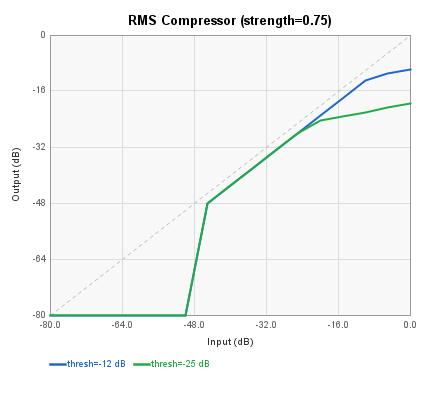
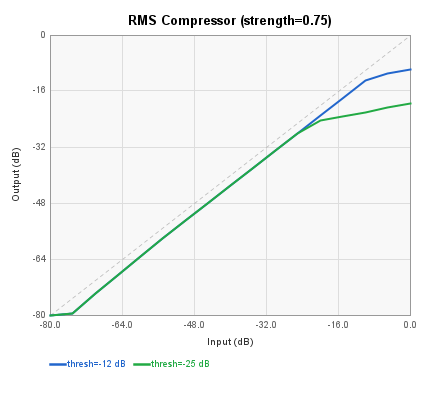
Fix LOG simulator returning wrong value for zero input, update dynamics plots
The LOG instruction simulator returned +1.0 when ACC was zero, causing
compressors/limiters to apply heavy gain reduction to low-level signals
instead of passing them through at unity. Real FV-1 hardware saturates
to the minimum representable value. Changed to -1.0 to match.

diff --git a/src/org/andrewkilpatrick/elmGen/instructions/Log.java b/src/org/andrewkilpatrick/elmGen/instructions/Log.java
@@ -76,7 +76,7 @@ public class Log extends Instruction {
 		double res;
 		acc = Math.abs(acc);
 		if(acc == 0.0) {
-			res = 1.0;
+			res = -1.0;
 		}
 		else
 		{
